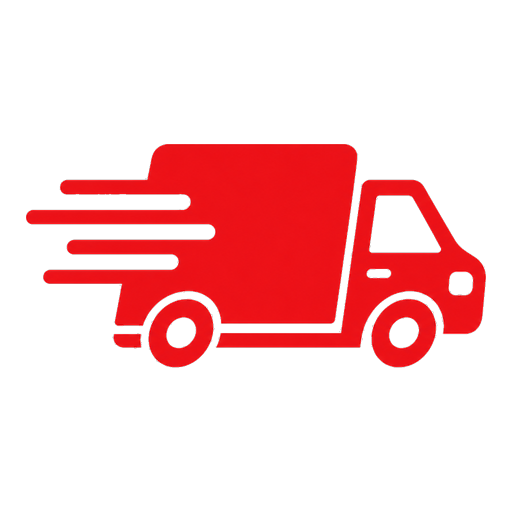
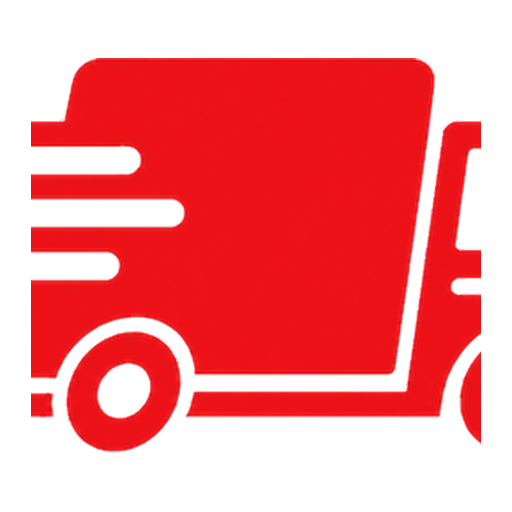
fixed asn product add func error

diff --git a/scripts/optimize_slack_status_icons.py b/scripts/optimize_slack_status_icons.py
@@ -1,5 +1,5 @@
 #!/usr/bin/env python3
-"""Rebuild square Slack webhook avatars from wide source PNGs."""
+"""Rebuild square Slack webhook avatars — truck fills frame, no gray letterboxing."""
 
 from __future__ import annotations
 
@@ -9,20 +9,23 @@ from pathlib import Path
 from PIL import Image
 
 SIZE = 512
-MARGIN = 0.05
+# Fraction of canvas the artwork should cover (inscribed circle ~0.88 for Slack avatars).
+FILL = 0.88
 WHITE_THRESHOLD = 245
+# Slack renders transparent webhook icons on gray; use opaque white instead.
+BACKGROUND_RGB = (255, 255, 255)
 
 ROOT = Path(__file__).resolve().parents[1]
 OUT_DIR = ROOT / "public" / "images" / "slack"
 
-PAIRS = [
-    ("shipping-status-live.png", "shipping-status-live.png"),
-    ("shipping-status-paused.png", "shipping-status-paused.png"),
+FILES = [
+    "shipping-status-live.png",
+    "shipping-status-paused.png",
 ]
 
 
-def process(src: Path, dest: Path) -> None:
-    im = Image.open(src).convert("RGBA")
+def strip_white_to_alpha(im: Image.Image) -> Image.Image:
+    im = im.convert("RGBA")
     px = im.load()
     w, h = im.size
     for y in range(h):
@@ -30,30 +33,44 @@ def process(src: Path, dest: Path) -> None:
             r, g, b, a = px[x, y]
             if r >= WHITE_THRESHOLD and g >= WHITE_THRESHOLD and b >= WHITE_THRESHOLD:
                 px[x, y] = (255, 255, 255, 0)
+    return im
+
+
+def process(src: Path, dest: Path) -> None:
+    im = strip_white_to_alpha(Image.open(src))
     bbox = im.getbbox()
     if not bbox:
         raise RuntimeError(f"No visible pixels in {src}")
     cropped = im.crop(bbox)
-    avail = int(SIZE * (1 - 2 * MARGIN))
-    scale = avail / max(cropped.size)
-    new_w = max(1, int(cropped.width * scale))
+
+    target = int(SIZE * FILL)
+    # Fit by width so the full truck is visible in Slack's circular crop (wide art).
+    scale = target / cropped.width
+    new_w = target
     new_h = max(1, int(cropped.height * scale))
     resized = cropped.resize((new_w, new_h), Image.Resampling.LANCZOS)
-    canvas = Image.new("RGBA", (SIZE, SIZE), (0, 0, 0, 0))
-    canvas.paste(resized, ((SIZE - new_w) // 2, (SIZE - new_h) // 2), resized)
+
+    rgba = Image.new("RGBA", (SIZE, SIZE), (*BACKGROUND_RGB, 255))
+    left = (SIZE - new_w) // 2
+    top = (SIZE - new_h) // 2
+    rgba.paste(resized, (left, top), resized)
+
+    # Flatten to opaque RGB (Slack does not gray-out a solid background).
+    flat = Image.new("RGB", (SIZE, SIZE), BACKGROUND_RGB)
+    flat.paste(rgba, mask=rgba.split()[3])
     dest.parent.mkdir(parents=True, exist_ok=True)
-    canvas.save(dest, "PNG", optimize=True)
-    print(f"Wrote {dest} ({dest.stat().st_size} bytes)")
+    flat.save(dest, "PNG", optimize=True)
+    print(f"Wrote {dest} ({dest.stat().st_size} bytes, fit {new_w}x{new_h})")
 
 
 def main() -> int:
     OUT_DIR.mkdir(parents=True, exist_ok=True)
-    for src_name, dest_name in PAIRS:
-        src = OUT_DIR / src_name
+    for name in FILES:
+        src = OUT_DIR / name
         if not src.is_file():
             print(f"Missing source: {src}", file=sys.stderr)
             return 1
-        process(src, OUT_DIR / dest_name)
+        process(src, OUT_DIR / name)
     return 0
 
 